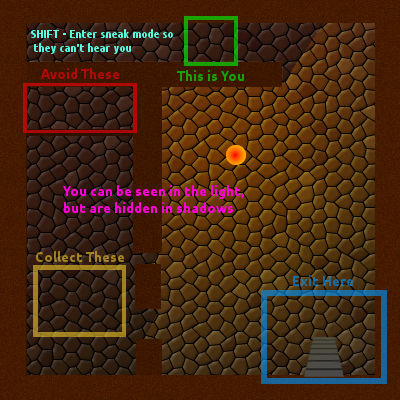
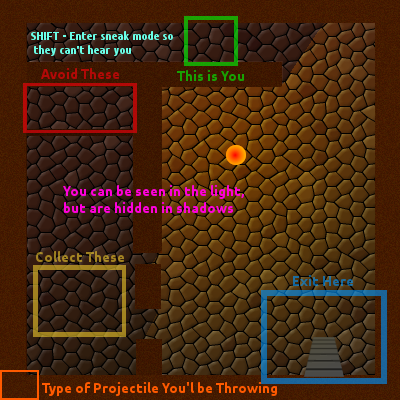
Improve throwing mechanic. Add display of what you are throwing.

Changed region(s): [[0.06, 0.06, 0.45, 0.15], [0.0, 0.9, 0.69, 1.0]]

diff --git a/core/src/za/co/jethromuller/ctst/Level.java b/core/src/za/co/jethromuller/ctst/Level.java
@@ -5,6 +5,7 @@ import com.badlogic.gdx.Gdx;
 import com.badlogic.gdx.Input;
 import com.badlogic.gdx.Screen;
 import com.badlogic.gdx.graphics.GL20;
+import com.badlogic.gdx.graphics.Texture;
 import com.badlogic.gdx.graphics.g2d.SpriteBatch;
 import com.badlogic.gdx.graphics.g2d.TextureRegion;
 import com.badlogic.gdx.graphics.glutils.ShapeRenderer;
@@ -355,6 +356,15 @@ public class Level implements Screen {
         for (Entity notTreasure : notTreasures) {
             notTreasure.update();
             notTreasure.draw(batch);
+            if (notTreasure instanceof Player) {
+                Texture projectile;
+                if (((Player) notTreasure).isThrowRock()) {
+                    projectile = new Texture("entities/rock.png");
+                } else {
+                    projectile = new Texture("entities/water-bomb.png");
+                }
+                batch.draw(projectile, 5, 5, 20, 20);
+            }
         }
     }
 

diff --git a/core/src/za/co/jethromuller/ctst/entities/Player.java b/core/src/za/co/jethromuller/ctst/entities/Player.java
@@ -132,6 +132,10 @@ public class Player extends Entity {
         }
     }
 
+    public boolean isThrowRock() {
+        return throwRock;
+    }
+
     private void makeProjectile(int xDir, int yDir) {
         String projectileFile;
         if (!throwRock) {
